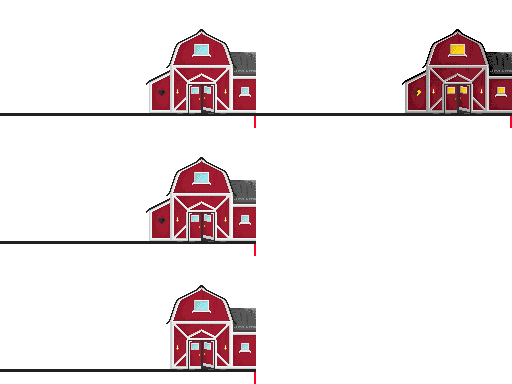
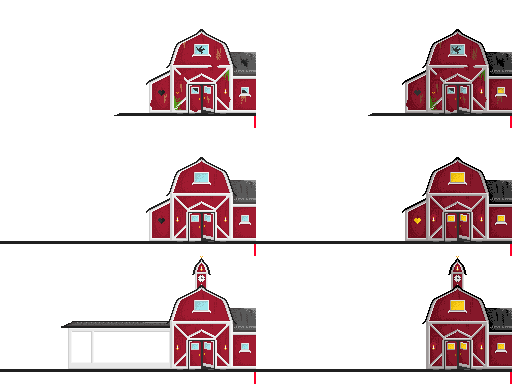
0.4.0 updated house spriteAtlas

diff --git a/game.js b/game.js
@@ -7,7 +7,7 @@ import _SHOP from "./js/scenes/shop.js";
 
 const PLAYER_DATA = {
     'NEWGAME': true,
-    'SCORE' : 200,
+    'SCORE' : 211,
     'DAY_NIGHT_COUNT': 1,
     'GAME_HOUR' : 5,
     'GAME_DAY' : 1,
@@ -76,8 +76,8 @@ const PLAYER_DATA = {
 // LOAD ASSETS
 loadSprite('bg-day', 'src/backgrounds/finalDay.PNG');
 loadSprite('bg-night', 'src/backgrounds/finalNight.PNG');
-loadSprite('house-day', 'src/house/house-day.png');
-loadSprite('house-night', 'src/house/house-night.png');
+// loadSprite('house-day', 'src/house/house-day.png');
+// loadSprite('house-night', 'src/house/house-night.png');
 loadSpriteAtlas('src/house/house-bitmap.png', { //OWN SPRITE
     "house-c1-u1-day": {
         x:0,
@@ -90,9 +90,33 @@ loadSpriteAtlas('src/house/house-bitmap.png', { //OWN SPRITE
         y: 0,
         width: 256,
         height: 128
-    }
-})
+    },
+    "house-c1-u2-day": {
+        x:0,
+        y:128,
+        width:256,
+        height: 128
+    },
+    "house-c1-u2-night": {
+        x: 256,
+        y: 128,
+        width: 256,
+        height: 128
+    },
+    "house-c1-u3-day": {
+        x:0,
+        y:256,
+        width:256,
+        height: 128
+    },
+    "house-c1-u3-night": {
+        x: 256,
+        y: 256,
+        width: 256,
+        height: 128
+    },
 
+})
 loadSpriteAtlas('src/street/street-bitmap.png', { //OWN SPRITE
     "street-c1-u1-day": {
         x:0,

diff --git a/js/scenes/game-desert.js b/js/scenes/game-desert.js
@@ -221,7 +221,7 @@ export default function _GAME_DESERT (PLAYER_DATA) {
             PLAYER_DATA.DAY_NIGHT_COUNT++;
             __BG.use(sprite("bg-night"));
             __STREET.use(sprite("street-c1-u"+inventory[3].lvl+"-night"));
-            __HOUSE.use(sprite("house-c1-u1-night"));
+            __HOUSE.use(sprite("house-c1-u"+inventory[2].lvl+"-night"));
             __DUMPSTER.use(sprite("dumpster-night", {anim:'idle',animSpeed:.6}));
             __PUMP.use(sprite("gp-c1-u"+ inventory[0].lvl +"-night"));
             __PUMP2.use(sprite("gp-c1-u"+ inventory[0].lvl +"-night"));
@@ -230,7 +230,7 @@ export default function _GAME_DESERT (PLAYER_DATA) {
             PLAYER_DATA.DAY_NIGHT_COUNT++;
             __BG.use(sprite("bg-day"));
             __STREET.use(sprite("street-c1-u"+inventory[3].lvl+"-day"));
-            __HOUSE.use(sprite("house-c1-u1-day"));
+            __HOUSE.use(sprite("house-c1-u"+inventory[2].lvl+"-day"));
             __DUMPSTER.use(sprite("dumpster-day", {anim:'idle',animSpeed:.6}));
             __PUMP.use(sprite("gp-c1-u"+ inventory[0].lvl +"-day"));
             __PUMP2.use(sprite("gp-c1-u"+ inventory[0].lvl +"-day"));

diff --git a/README.md b/README.md
@@ -26,7 +26,7 @@ Base for a Gas Station Tycoon Game.
 - Added own gas pump sprite, second pump buyable and functionable
 - Added own sprite for street and the refueling minigame, street is now repairable.
 - Added dumpster with flies
-- Added own sprite for house (not upgradable yet)
+- Added own sprite for house (not finished yet)
 
 
 //TODO
